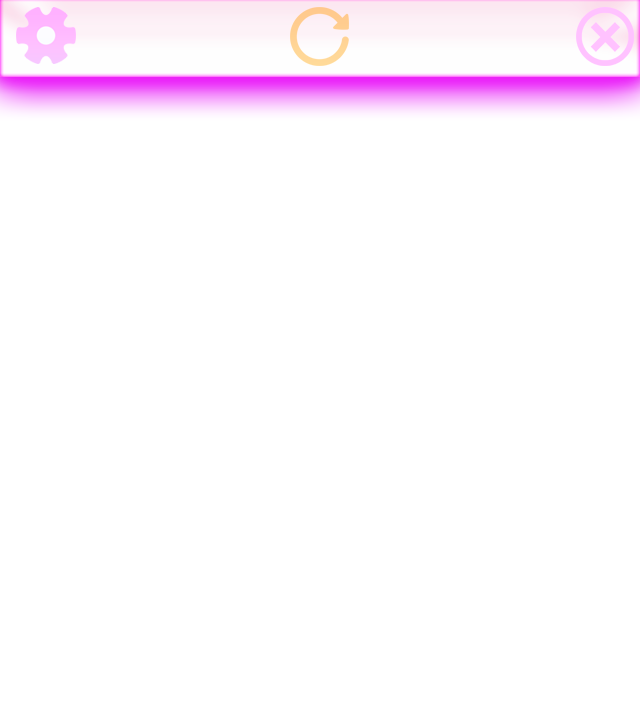
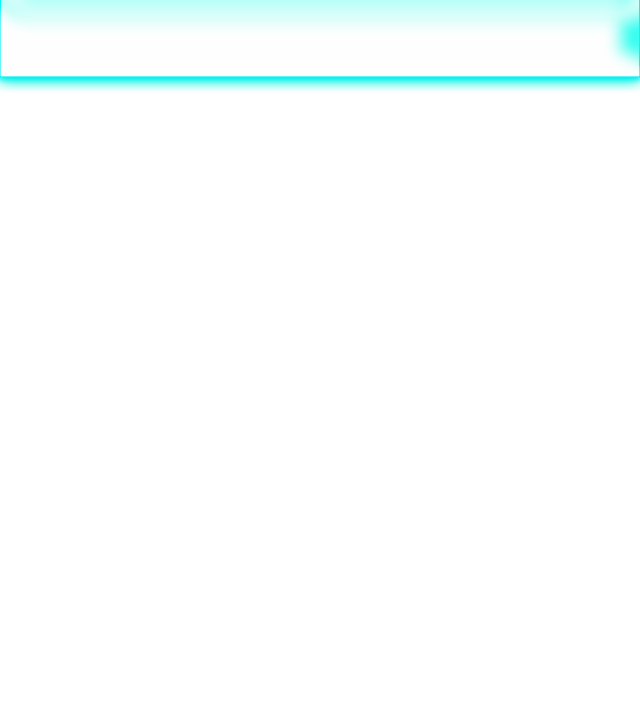
Actualizadas condiciones de borde, y gran mejora de la GUI

Changed region(s): [[0.0, 0.0, 1.0, 0.1528]]

diff --git a/src/GUI.py b/src/GUI.py
@@ -2,19 +2,21 @@ import pygame
 from moviepy.editor import VideoFileClip
 from random import randint
 from Game.Juego import *
-
+from math import sqrt
 
 class GUI:
     blanco = (254, 174, 126)
     negro = (254, 126, 185)
     gris = (2, 200, 200)
 
-    ancho_celda = 50
-    alto_celda = 50
-
     def __init__(self):
         self.game = Juego()
         self.dataPath = environ.get('PATH_DATA')
+        self.vivo=True
+        factor= max(self.game.conf.width, self.game.conf.height)
+        self.ancho_celda = 500/factor
+        self.alto_celda = 500/factor
+        
         pygame.init()
         win_width = int(environ.get('WINDOW_WIDTH'))
         win_height = int(environ.get('WINDOW_HEIGHT'))
@@ -38,10 +40,28 @@ class GUI:
         icon_bar = pygame.image.load(ruta_iconos)
         icon_bar = pygame.transform.scale(icon_bar, (win_width, win_height))
 
+        imagen_boton_reinicio = pygame.image.load(self.dataPath+"reload.png")
+        imagen_boton_reinicio = pygame.transform.scale(imagen_boton_reinicio, (60, 60))  # Ajustar el tamaño según sea necesario
+        # Definir el rectángulo del botón de reinicio
+        rectangulo_boton_reinicio = imagen_boton_reinicio.get_rect()
+        rectangulo_boton_reinicio.center = (win_width // 2, 40)
+
+        imagen_boton_exit = pygame.image.load(self.dataPath+"exit.png")
+        imagen_boton_exit = pygame.transform.scale(imagen_boton_exit, (60, 60))  # Ajustar el tamaño según sea necesario
+        # Definir el rectángulo del botón de reinicio
+        rectangulo_boton_exit = imagen_boton_exit.get_rect()
+        rectangulo_boton_exit.center = (win_width-40, 40)
+
+        imagen_boton_config = pygame.image.load(self.dataPath+"config.png")
+        imagen_boton_config = pygame.transform.scale(imagen_boton_config, (60, 60))  # Ajustar el tamaño según sea necesario
+        # Definir el rectángulo del botón de reinicio
+        rectangulo_boton_config = imagen_boton_config.get_rect()
+        rectangulo_boton_config.center = (40, 40)
+
         frame_rate = clip.fps
 
         clock = pygame.time.Clock()
-
+        
         while True:
             for evento in pygame.event.get():
                 if (evento.type == pygame.QUIT):
@@ -50,23 +70,36 @@ class GUI:
                 elif evento.type == pygame.MOUSEBUTTONDOWN:
                     # Verificar si el jugador hizo clic en alguna celda
                         if(evento.button == 1):
+                            if rectangulo_boton_reinicio.collidepoint(evento.pos):
+                                self.game.iniciarJuego(self.game.conf)
+                                self.vivo=True
+                            elif rectangulo_boton_exit.collidepoint(evento.pos):
+                                pygame.quit()
+                                exit()
+                                
                             for fila in range(self.game.conf.height):
                                 for columna in range(self.game.conf.width):
                                     rectangulo = pygame.Rect(columna * self.ancho_celda + 70, fila * self.alto_celda + 110, self.ancho_celda, self.alto_celda)
-                                    if rectangulo.collidepoint(evento.pos):
-                                        self.revelar_celda(fila, columna)
+                                    if(self.vivo):
+                                        if (rectangulo.collidepoint(evento.pos) and (not self.game.tablero.mapa[columna*self.game.conf.height+fila].marca)):
+                                            self.revelar_celda(fila, columna)
+                                    
                         elif(evento.button == 3):
                             for fila in range(self.game.conf.height):
                                 for columna in range(self.game.conf.width):
                                     rectangulo = pygame.Rect(columna * self.ancho_celda + 70, fila * self.alto_celda + 110, self.ancho_celda, self.alto_celda)
-                                    if rectangulo.collidepoint(evento.pos):
-                                        self.game.tablero.mapa[columna*self.game.conf.height + fila].marcar
-
-            frame_actual = int(pygame.time.get_ticks() * frame_rate / 1000) % len(frames)
+                                    if(self.vivo):
+                                        if (rectangulo.collidepoint(evento.pos) and (not self.game.tablero.mapa[columna*self.game.conf.height+fila].descubierta)):
+                                            self.game.tablero.mapa[columna*self.game.conf.height + fila].marcar      
+                                    
+                frame_actual = int(pygame.time.get_ticks() * frame_rate / 1000) % len(frames)
 
             self.ventana.blit(frames[frame_actual], (0,0))
             self.ventana.blit(barra_lateral, (0,0))
             self.ventana.blit(icon_bar, (0,0))
+            self.ventana.blit(imagen_boton_reinicio, rectangulo_boton_reinicio)
+            self.ventana.blit(imagen_boton_exit, rectangulo_boton_exit)
+            self.ventana.blit(imagen_boton_config, rectangulo_boton_config)
 
             self.dibujar_tablero()
 
@@ -79,22 +112,29 @@ class GUI:
     def revelar_celda(self, fila, columna):
         # Marcar la celda como revelada
         index = columna*self.game.conf.height + fila
-        self.game.tablero.mapa[index].descubrir
-        print(self.game.tablero.mapa[index].valor)
-        print(self.game.tablero.mapa[index].descubierta)
         if (self.game.tablero.mapa[index].valor == -1 and (not self.game.tablero.mapa[index].descubierta)):
+            self.game.tablero.mapa[index].descubrir
+            for i in self.game.tablero.mines:
+                self.game.tablero.mapa[i].descubrir
             self.dibujar_tablero()
+            self.vivo = False
             #Terminar esta cosa uwu
         elif (self.game.tablero.mapa[index].valor == 0 and (not self.game.tablero.mapa[index].descubierta)):
+            self.game.tablero.mapa[index].descubrir
             for i in range(columna-1, columna+2):
                 for j in range(fila-1, fila+2):
-                    if ((i>=0 and j>=0 and i<self.game.conf.heigth and j<self.game.conf.width)): self.revelar_celda(j,i)
+                    if ((i>=0 and j>=0 and i<self.game.conf.width and j<self.game.conf.height) and (self.game.tablero.mapa[i*self.game.conf.height+j].valor>0 or (i==columna or j==fila))): self.revelar_celda(j,i)
+        else:
+            self.game.tablero.mapa[index].descubrir
 
     # Función para dibujar el tablero en la pantall1a
     def dibujar_tablero(self):
         bomba = pygame.image.load(self.dataPath+"bomba.png")
+        bomba = pygame.transform.scale(bomba, (self.ancho_celda, self.alto_celda))
         bandera = pygame.image.load(self.dataPath+'flag.png')
+        bandera = pygame.transform.scale(bandera, (self.ancho_celda, self.alto_celda))
         casilla_no_revelada = pygame.image.load(self.dataPath+'casilla.png')
+        casilla_no_revelada = pygame.transform.scale(casilla_no_revelada, (self.ancho_celda, self.alto_celda))
         for fila in range(self.game.conf.height):
             for columna in range(self.game.conf.width):
                 x = columna * self.ancho_celda + 70
@@ -107,7 +147,9 @@ class GUI:
                     if self.game.tablero.mapa[index].valor == -1:
                         self.ventana.blit(bomba, (x,y))
                     elif self.game.tablero.mapa[index].valor != 0:
-                        self.ventana.blit(pygame.image.load(self.dataPath+str(self.game.tablero.mapa[index].valor)+'.png') , (x,y))
+                        icono_imagen = pygame.image.load(self.dataPath+str(self.game.tablero.mapa[index].valor)+'.png')
+                        icono_imagen = pygame.transform.scale(icono_imagen, (self.ancho_celda, self.alto_celda))
+                        self.ventana.blit(icono_imagen , (x,y))
                 else:
                     self.ventana.blit(casilla_no_revelada, (x,y))
 GUI()

diff --git a/src/baseObjects/Tablero.py b/src/baseObjects/Tablero.py
@@ -2,12 +2,11 @@ from random import shuffle
 from baseObjects.Celda import *
 from baseObjects.Configuracion import *
 
-#Hacer arreglo con bombas
-
 class Tablero:
     def __init__(self, configuracion):
         if(isinstance(configuracion, Configuracion)):
             self.__mapa = [Celda(0) for i in range(configuracion.width*configuracion.height)]
+            self.__mines =[]
             self.putMines(configuracion)
         else:
             print("El objeto entregado para configurar no es de clase configuracion")
@@ -16,16 +15,24 @@ class Tablero:
     #getters
     def __getMapa(self):
         return self.__mapa
+    def __getMines(self):
+        return self.__mines
+
     #setters
     def __setMapa(self, config):
         if(isinstance(config, Configuracion)):
             self.__mapa = [Celda(0) for i in range(config.width*config.height)]
             self.putMines(config)
+    def __setMines(self, index):
+        self.mines.append(index)
 
     #propertys (patron decorator)
     mapa = property(fget= __getMapa,
                     fset= __setMapa,
                     doc = "propiedades mapa")
+    mines= property(fget=__getMines,
+                    fset=__setMines,
+                    doc= "propiedades mines")
 
     def putMines(self, conf):
         pos = [(x,y) for x in range(conf.width) for y in range(conf.height)]
@@ -33,6 +40,7 @@ class Tablero:
         for i in range(0, conf.mines):
             x,y = pos.pop()
             index = x*conf.height + y
+            self.mines = index   #Mines no es igual a indice, gracias al patron de diseño decorator, esta linea permite adjuntar al arreglo el ultimo indice de bomba.
             if(self.mapa[index].valor !=-1):
                 self.mapa[index].valor=-1
                 for j in range(x-1, x+2):

diff --git a/src/baseObjects/Configuracion.py b/src/baseObjects/Configuracion.py
@@ -7,12 +7,29 @@ class Configuracion:
         return cls._instance
 
     def __init__(self, width, height, mines):
-        self.__width = width if(width>=5) else 5
-        self.__height = height if(height>=5) else 5
-        self.__mines = mines if(mines>=1) else 1
-        self.__width = width if(width<=25) else 25
-        self.__height = height if(height<=25) else 25
-        self.__mines = mines if(mines<=25*25-1) else 25*25-1
+        if (width>=5):
+            if (width<=25):
+                self.__width = width 
+            else:
+                self.__width = 25 
+        else:
+            self.__width= 5
+
+        if (height>=5):
+            if (height<=25):
+                self.__height = height 
+            else:
+                self.__height = 25 
+        else:
+            self.__height= 5
+
+        if (mines >=1):
+            if(mines <= self.__width*self.__height-1):
+                self.__mines = mines
+            else:
+                self.__mines = self.__width*self.__height-1
+        else:
+            self.__mines = 1
 
     #getters
     def __getWidth(self):
@@ -31,7 +48,7 @@ class Configuracion:
         self.__height = height if(height<=25) else 25
     def __setMines(self, mines):
         self.__mines = mines if(mines>=1) else 1
-        self.__mines = mines if(mines<=25*25-1) else 25*25-1
+        self.__mines = mines if(mines<=self.width*self.height-1) else self.width*self.height-1
 
     #propertys (patron decorator)
     width = property(fget= __getWidth,
